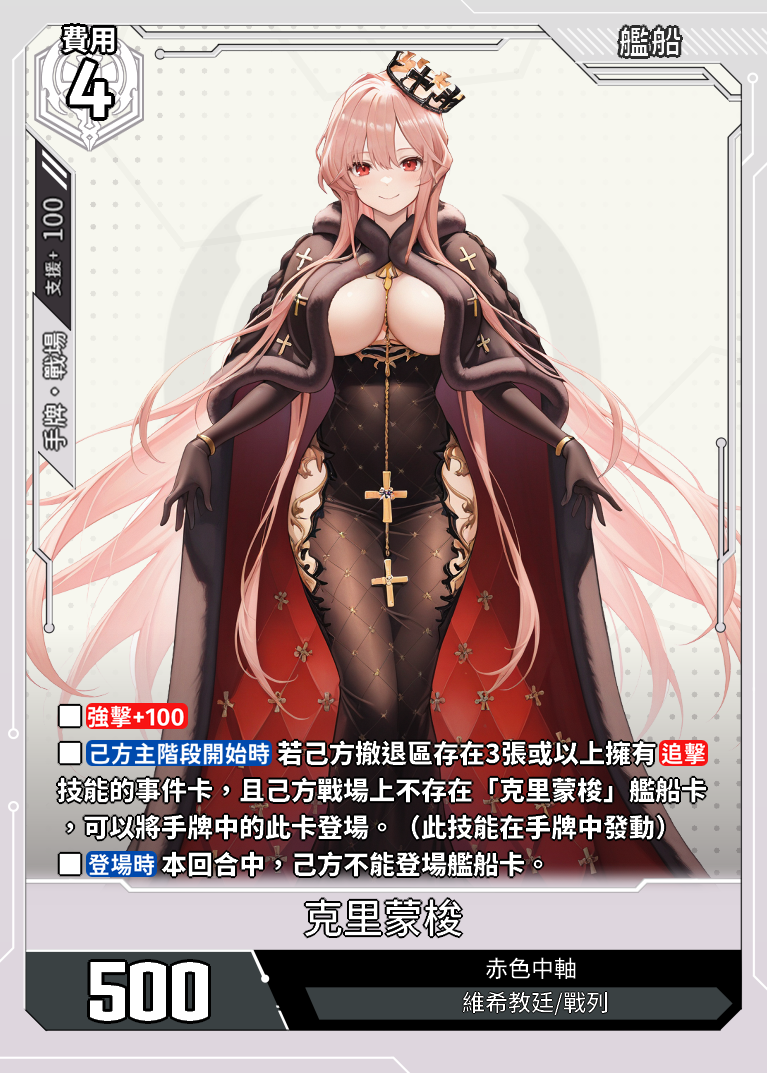
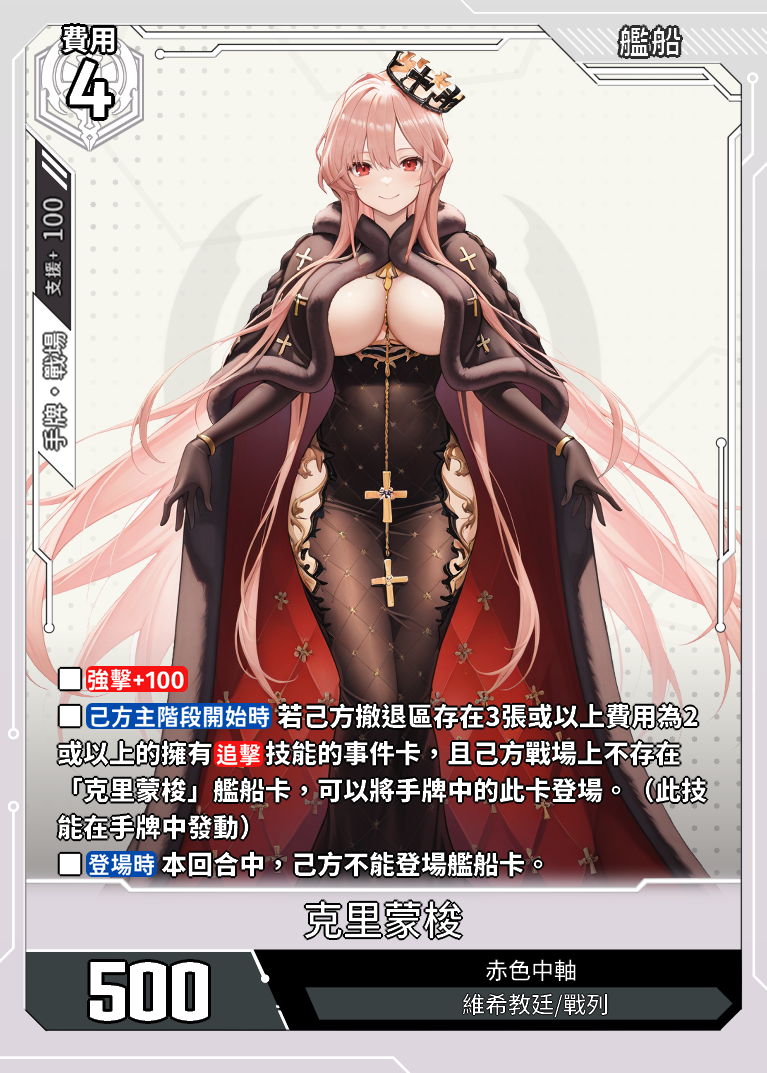
修改克里蒙梭

diff --git a/data.js b/data.js
@@ -25324,7 +25324,7 @@ const cards = [
             "支援範圍": "戰場",
             "支援值": "100"
         },
-        "card_effect": "■【強擊+100】■【己方主階段開始時】若己方撤退區存在3張或以上擁有【追擊】技能的事件卡，且己方戰場上不存在「克里蒙梭」艦船卡，可以將手牌中的此卡登場。（此技能在手牌中發動）■【登場時】本回合中，己方不能登場艦船卡。",
+        "card_effect": "■【強擊+100】■【己方主階段開始時】若己方撤退區存在3張或以上費用為2或以上的擁有【追擊】技能的事件卡，且己方戰場上不存在「克里蒙梭」艦船卡，可以將手牌中的此卡登場。（此技能在手牌中發動）■【登場時】本回合中，己方不能登場艦船卡。",
         "acquisition_method": "CE02-早期測試"
     },
 	{
